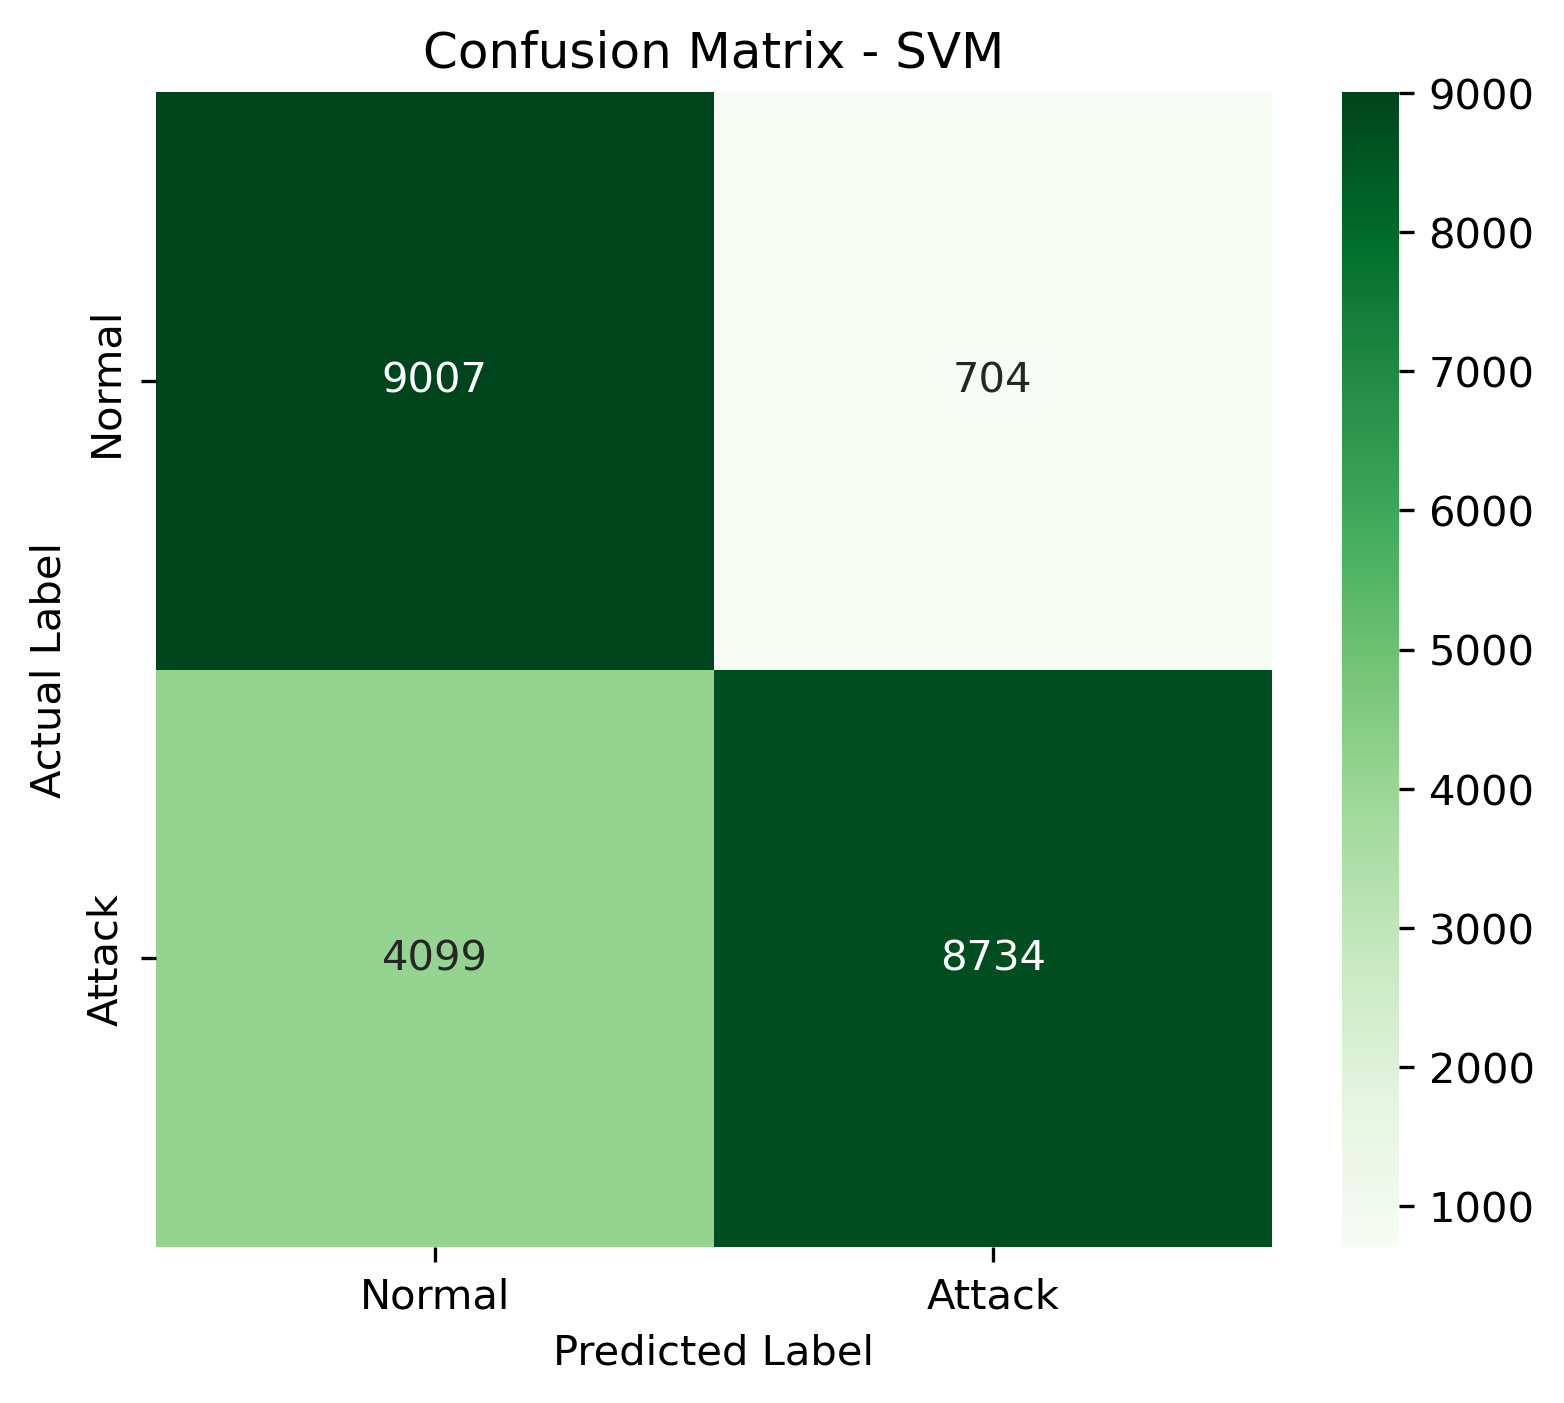
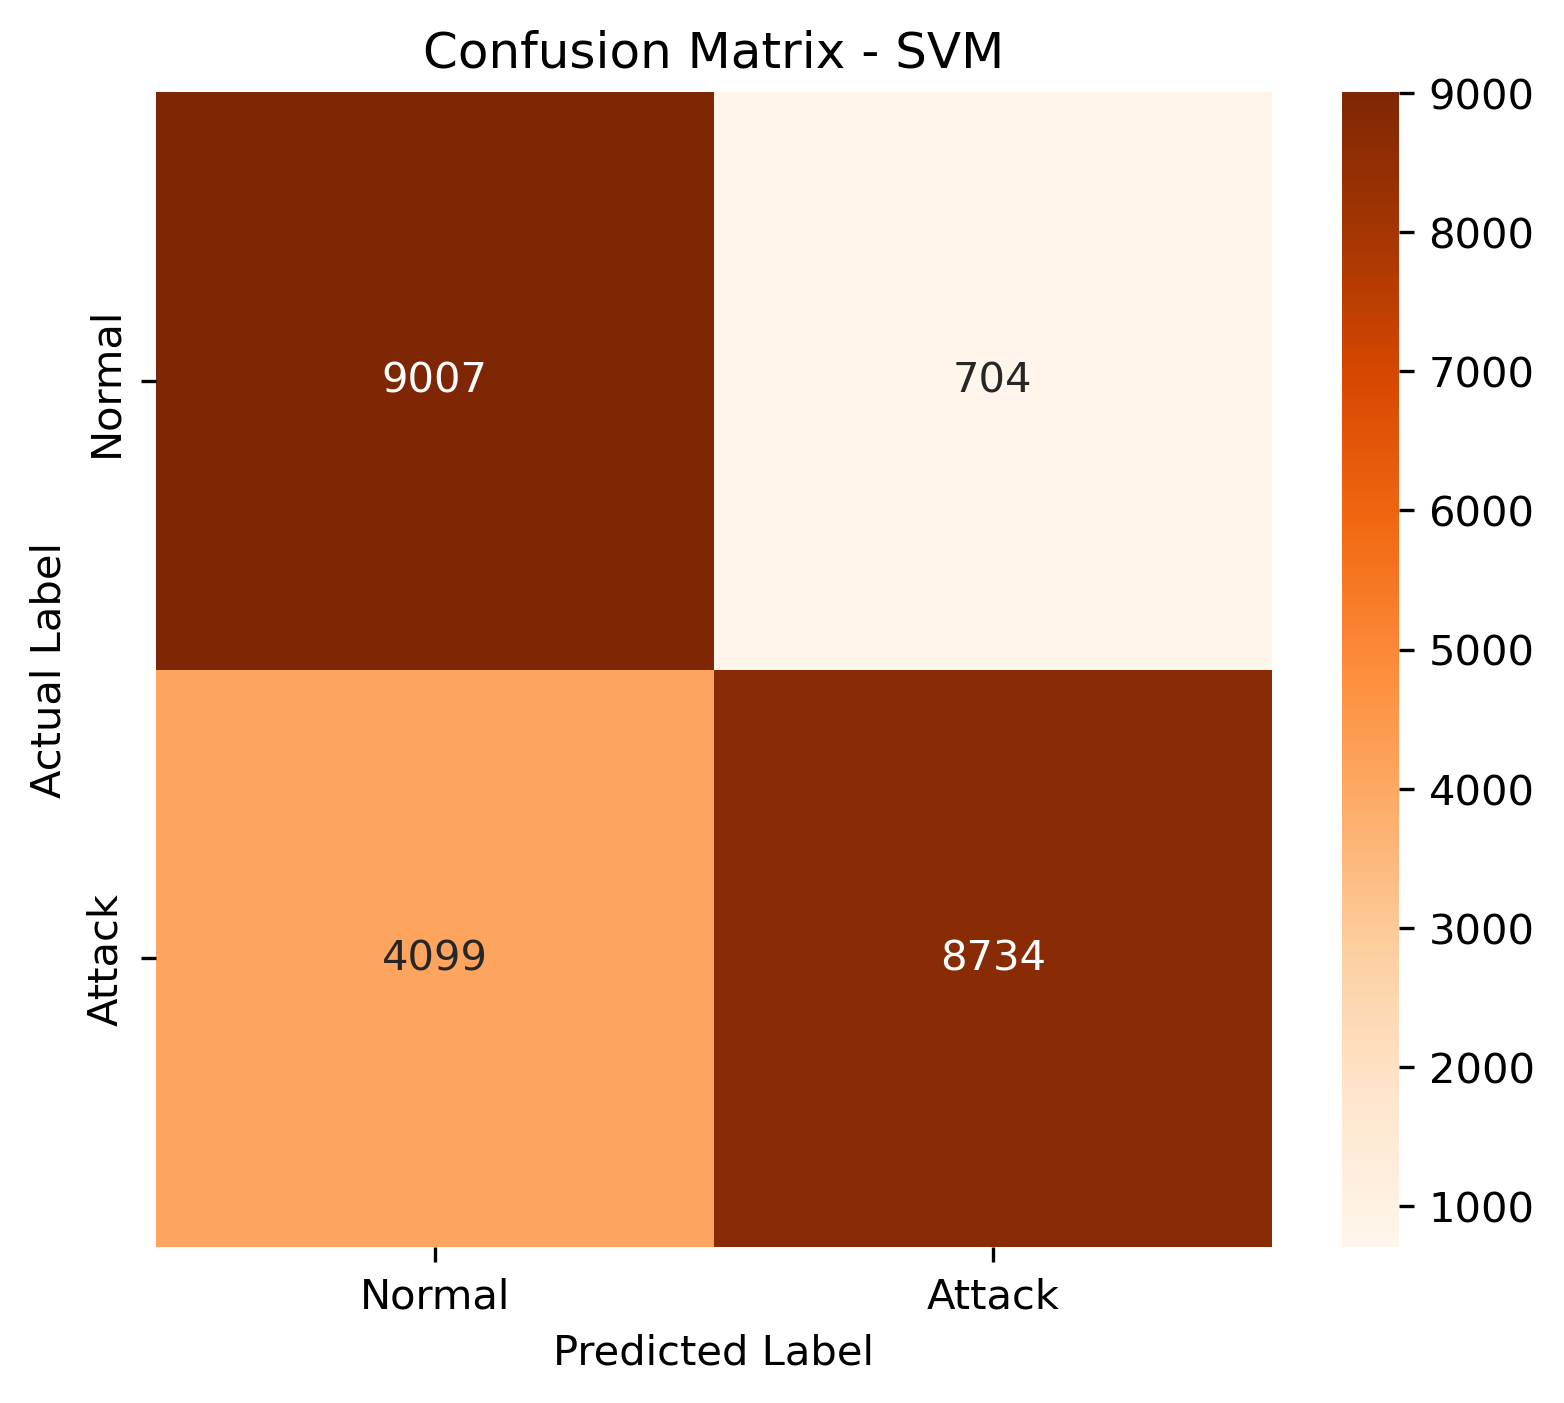
add result visualization

diff --git a/README.md b/README.md
@@ -63,6 +63,8 @@ The models were evaluated using:
 - F1-score
 - Confusion Matrix
 - Training Time
+
+
 They are showed in a table!
 
 ---
@@ -118,7 +120,7 @@ SVM	                0.786950	0.925408	       0.680589	                0.784338	 
 
 ### Decision Tree Confusion Matrix
 
-!Decision Tree Confusion Matrix](images/DT_confusion_matrix.png)
+![Decision Tree Confusion Matrix](images/DT_confusion_matrix.png)
 
 ### LR Confusion Matrix
 